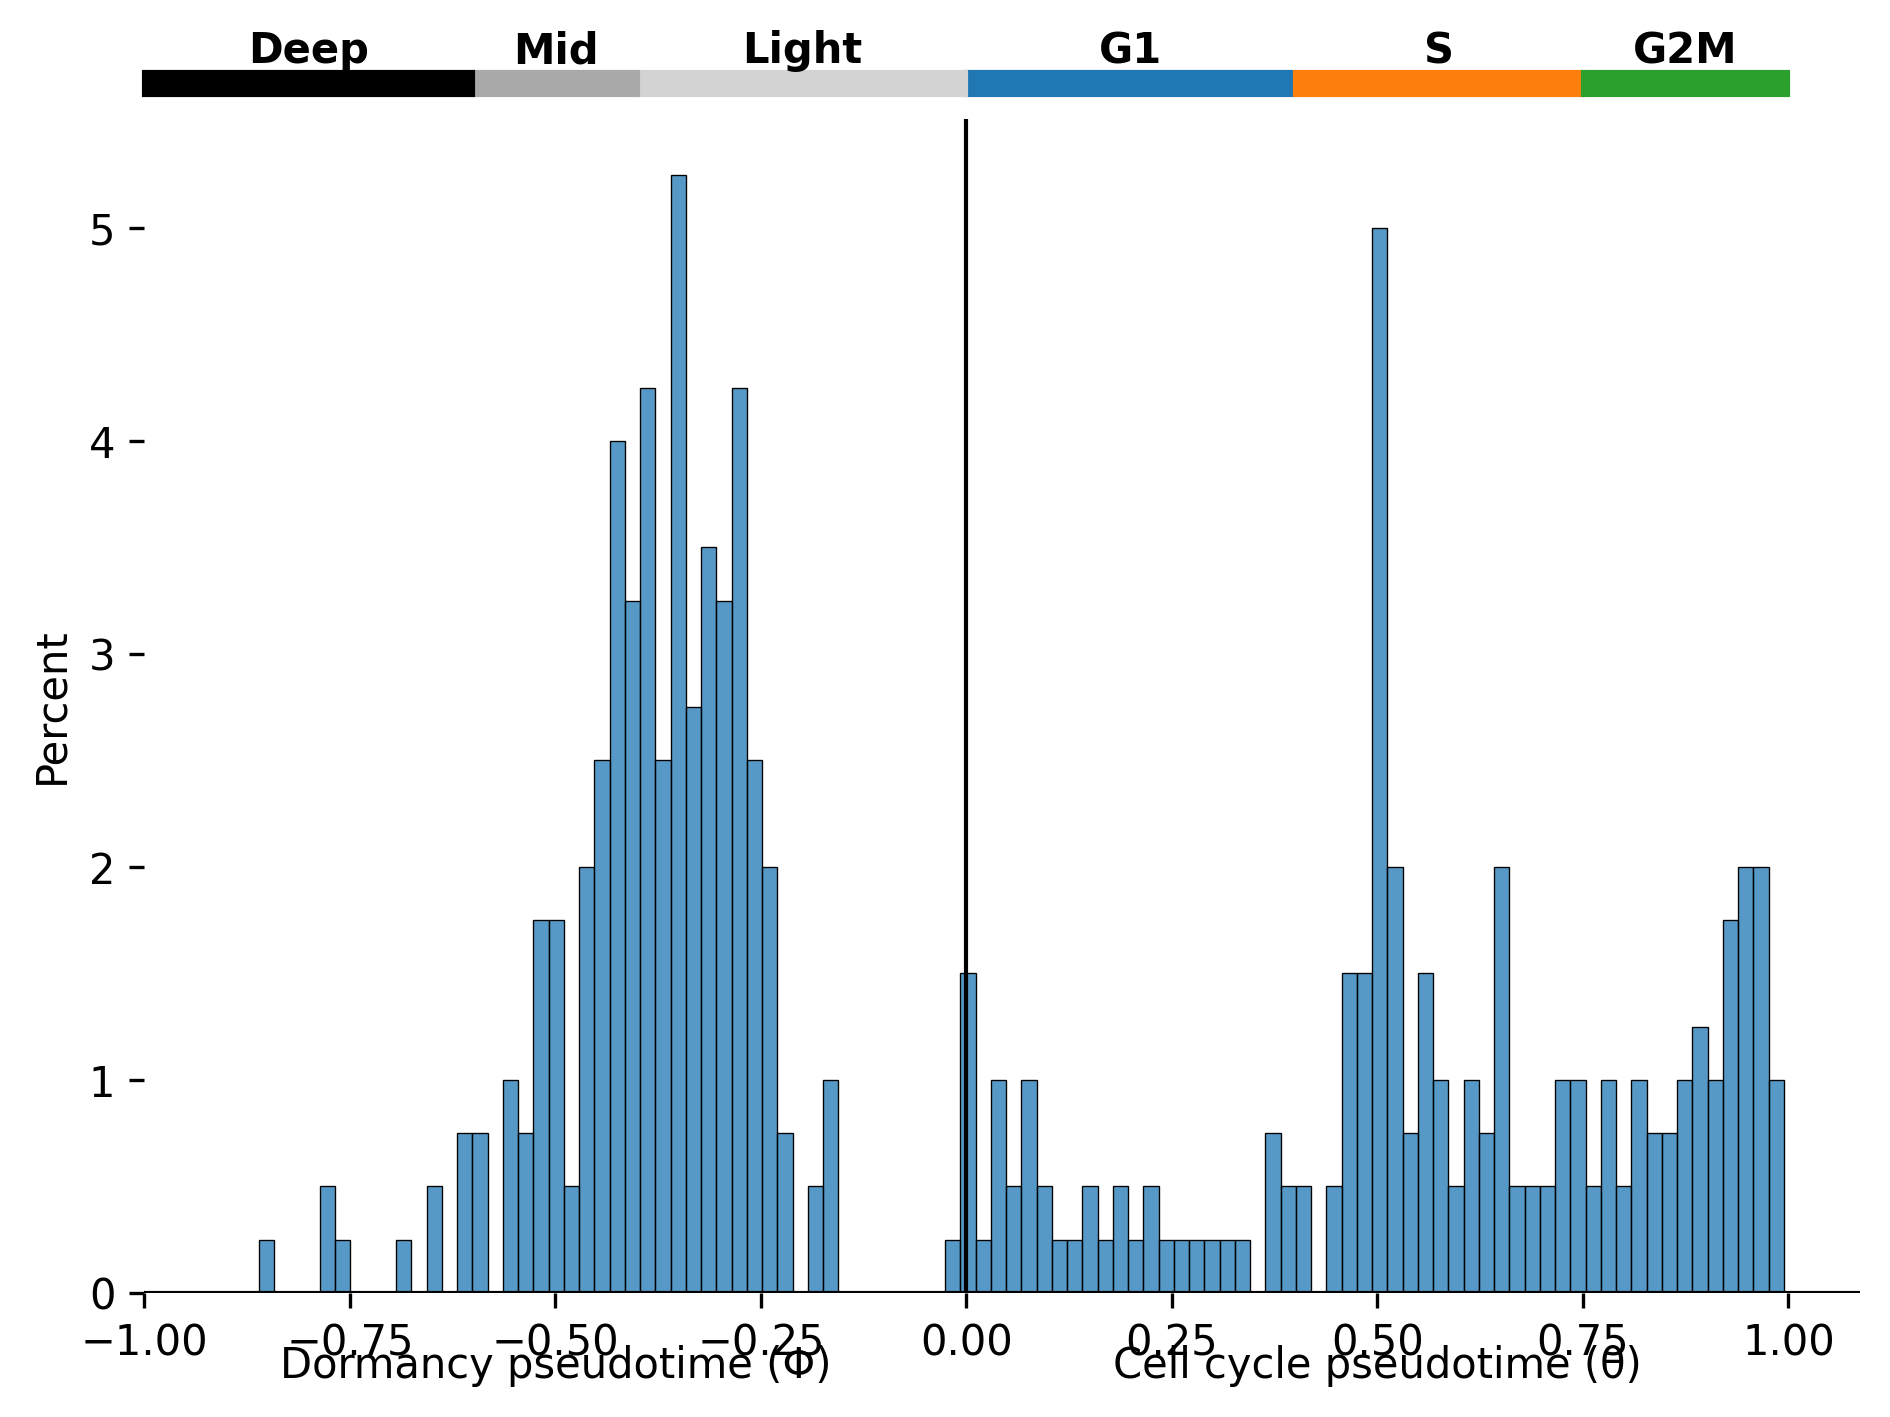
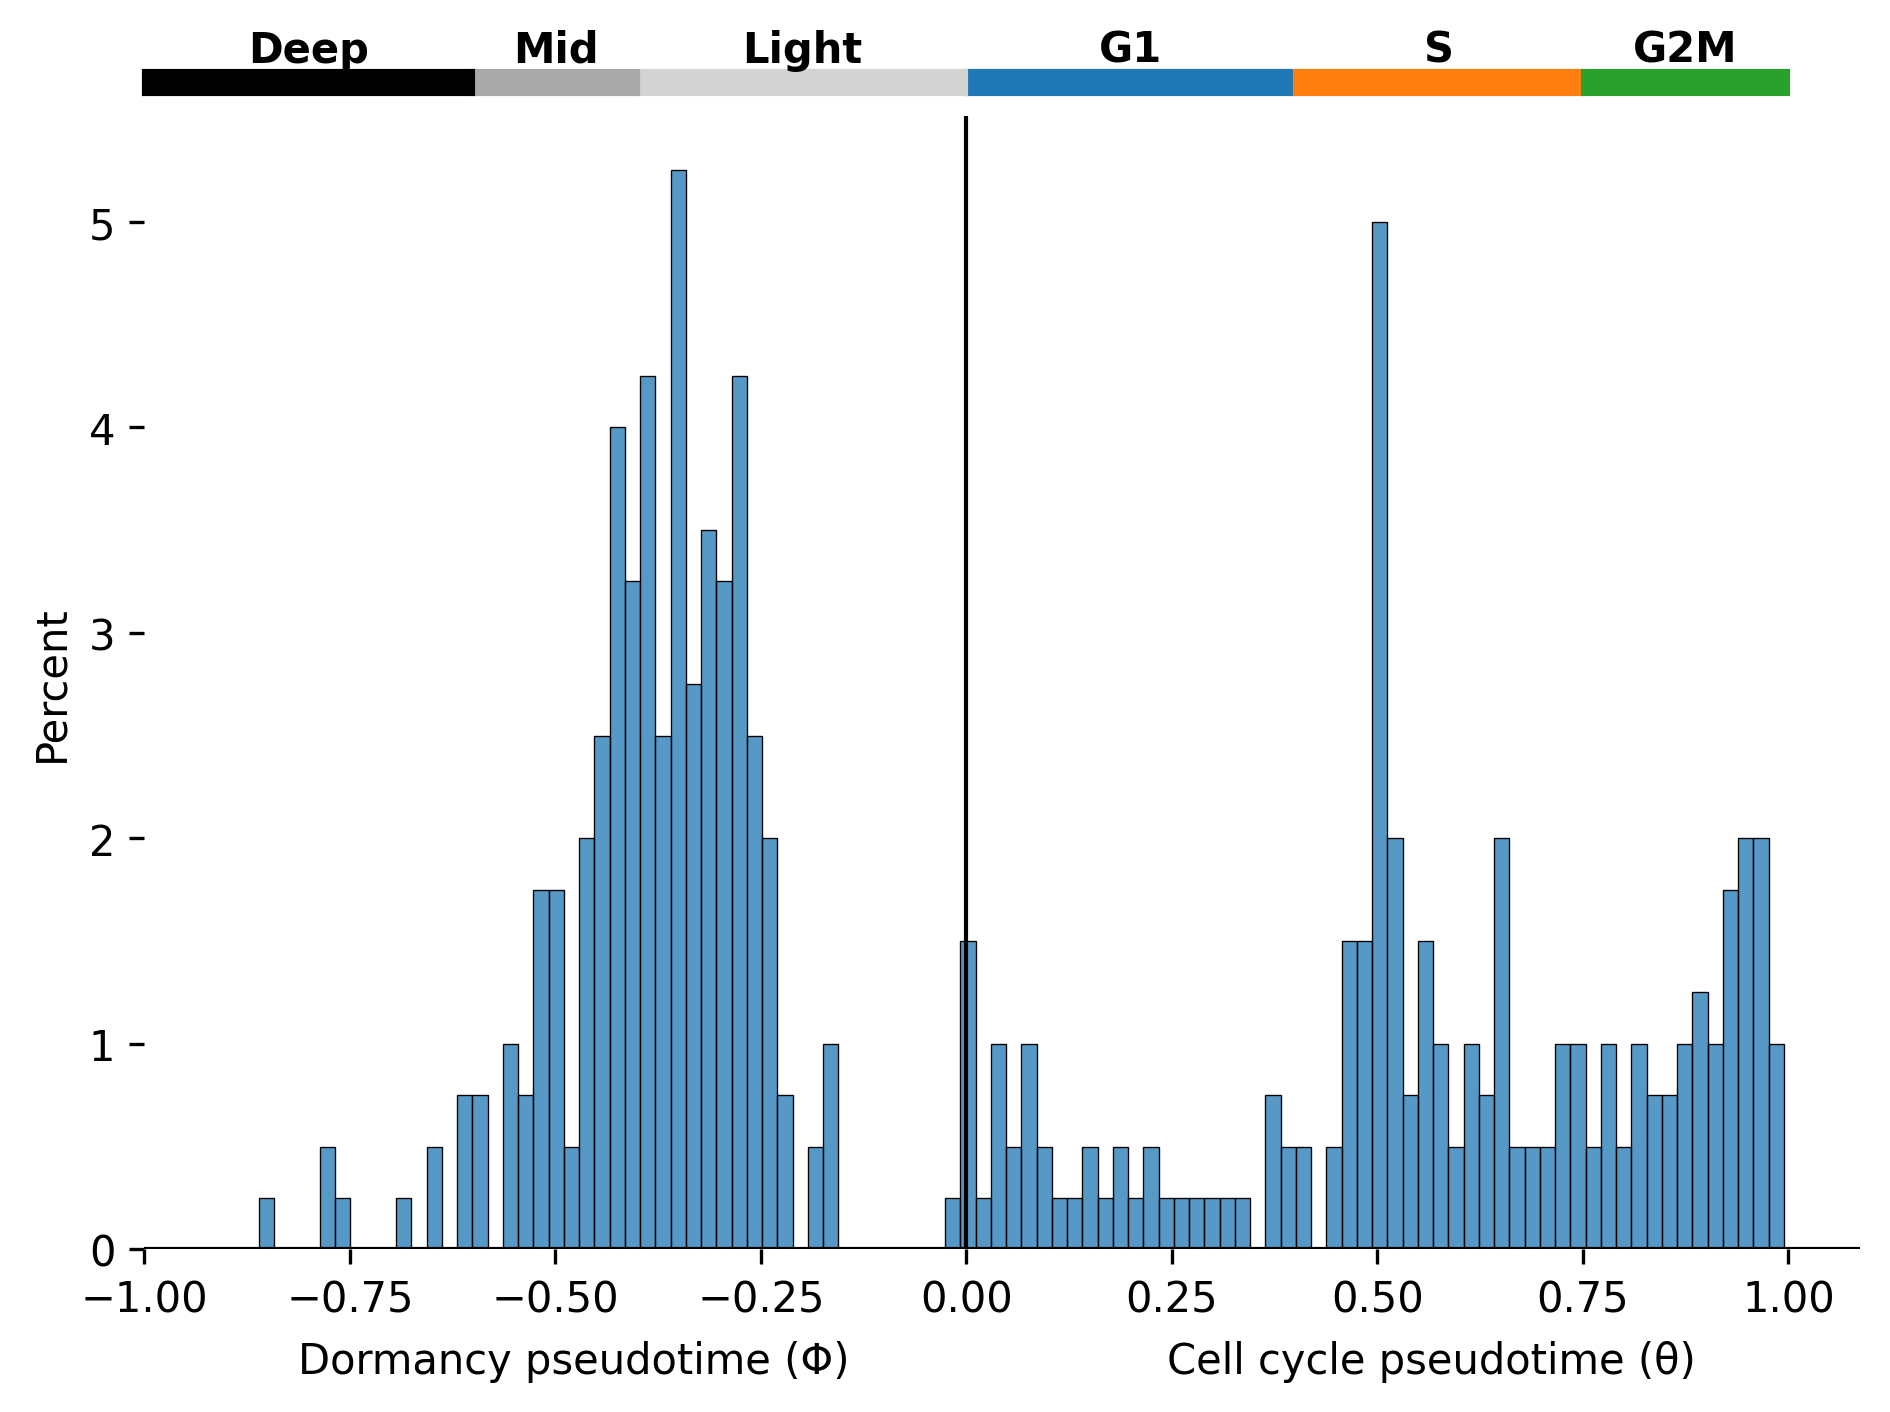
Fix x axis overlap for plot_pseudotime func

diff --git a/ouroboros/ouroboros_functions.py b/ouroboros/ouroboros_functions.py
@@ -2128,8 +2128,19 @@ def plot_pseudotime(z_df, condition=None, palette=None, save_fig=None):
     ax.axvline(0, color='black', linewidth=1)
 
     # Labels under x-axis
-    ax.text(-0.5, -0.4, 'Dormancy pseudotime (Φ)', ha='center', clip_on=False)
-    ax.text(0.5, -0.4, 'Cell cycle pseudotime (θ)', ha='center', clip_on=False)
+    ax.text(
+        0.25, -0.08, 'Dormancy pseudotime (Φ)',
+        transform=ax.transAxes,
+        ha='center', va='top',
+        clip_on=False
+    )
+
+    ax.text(
+        0.75, -0.08, 'Cell cycle pseudotime (θ)',
+        transform=ax.transAxes,
+        ha='center', va='top',
+        clip_on=False
+    )
 
     # Define the colored boxes for G1, S, G2M phases
     phase_colors = {'G1': '#1f77b4', 'S': '#ff7f0e', 'G2M': '#2ca02c', 'Light': 'lightgrey', 'Mid': 'darkgrey', 'Deep':'black'}
